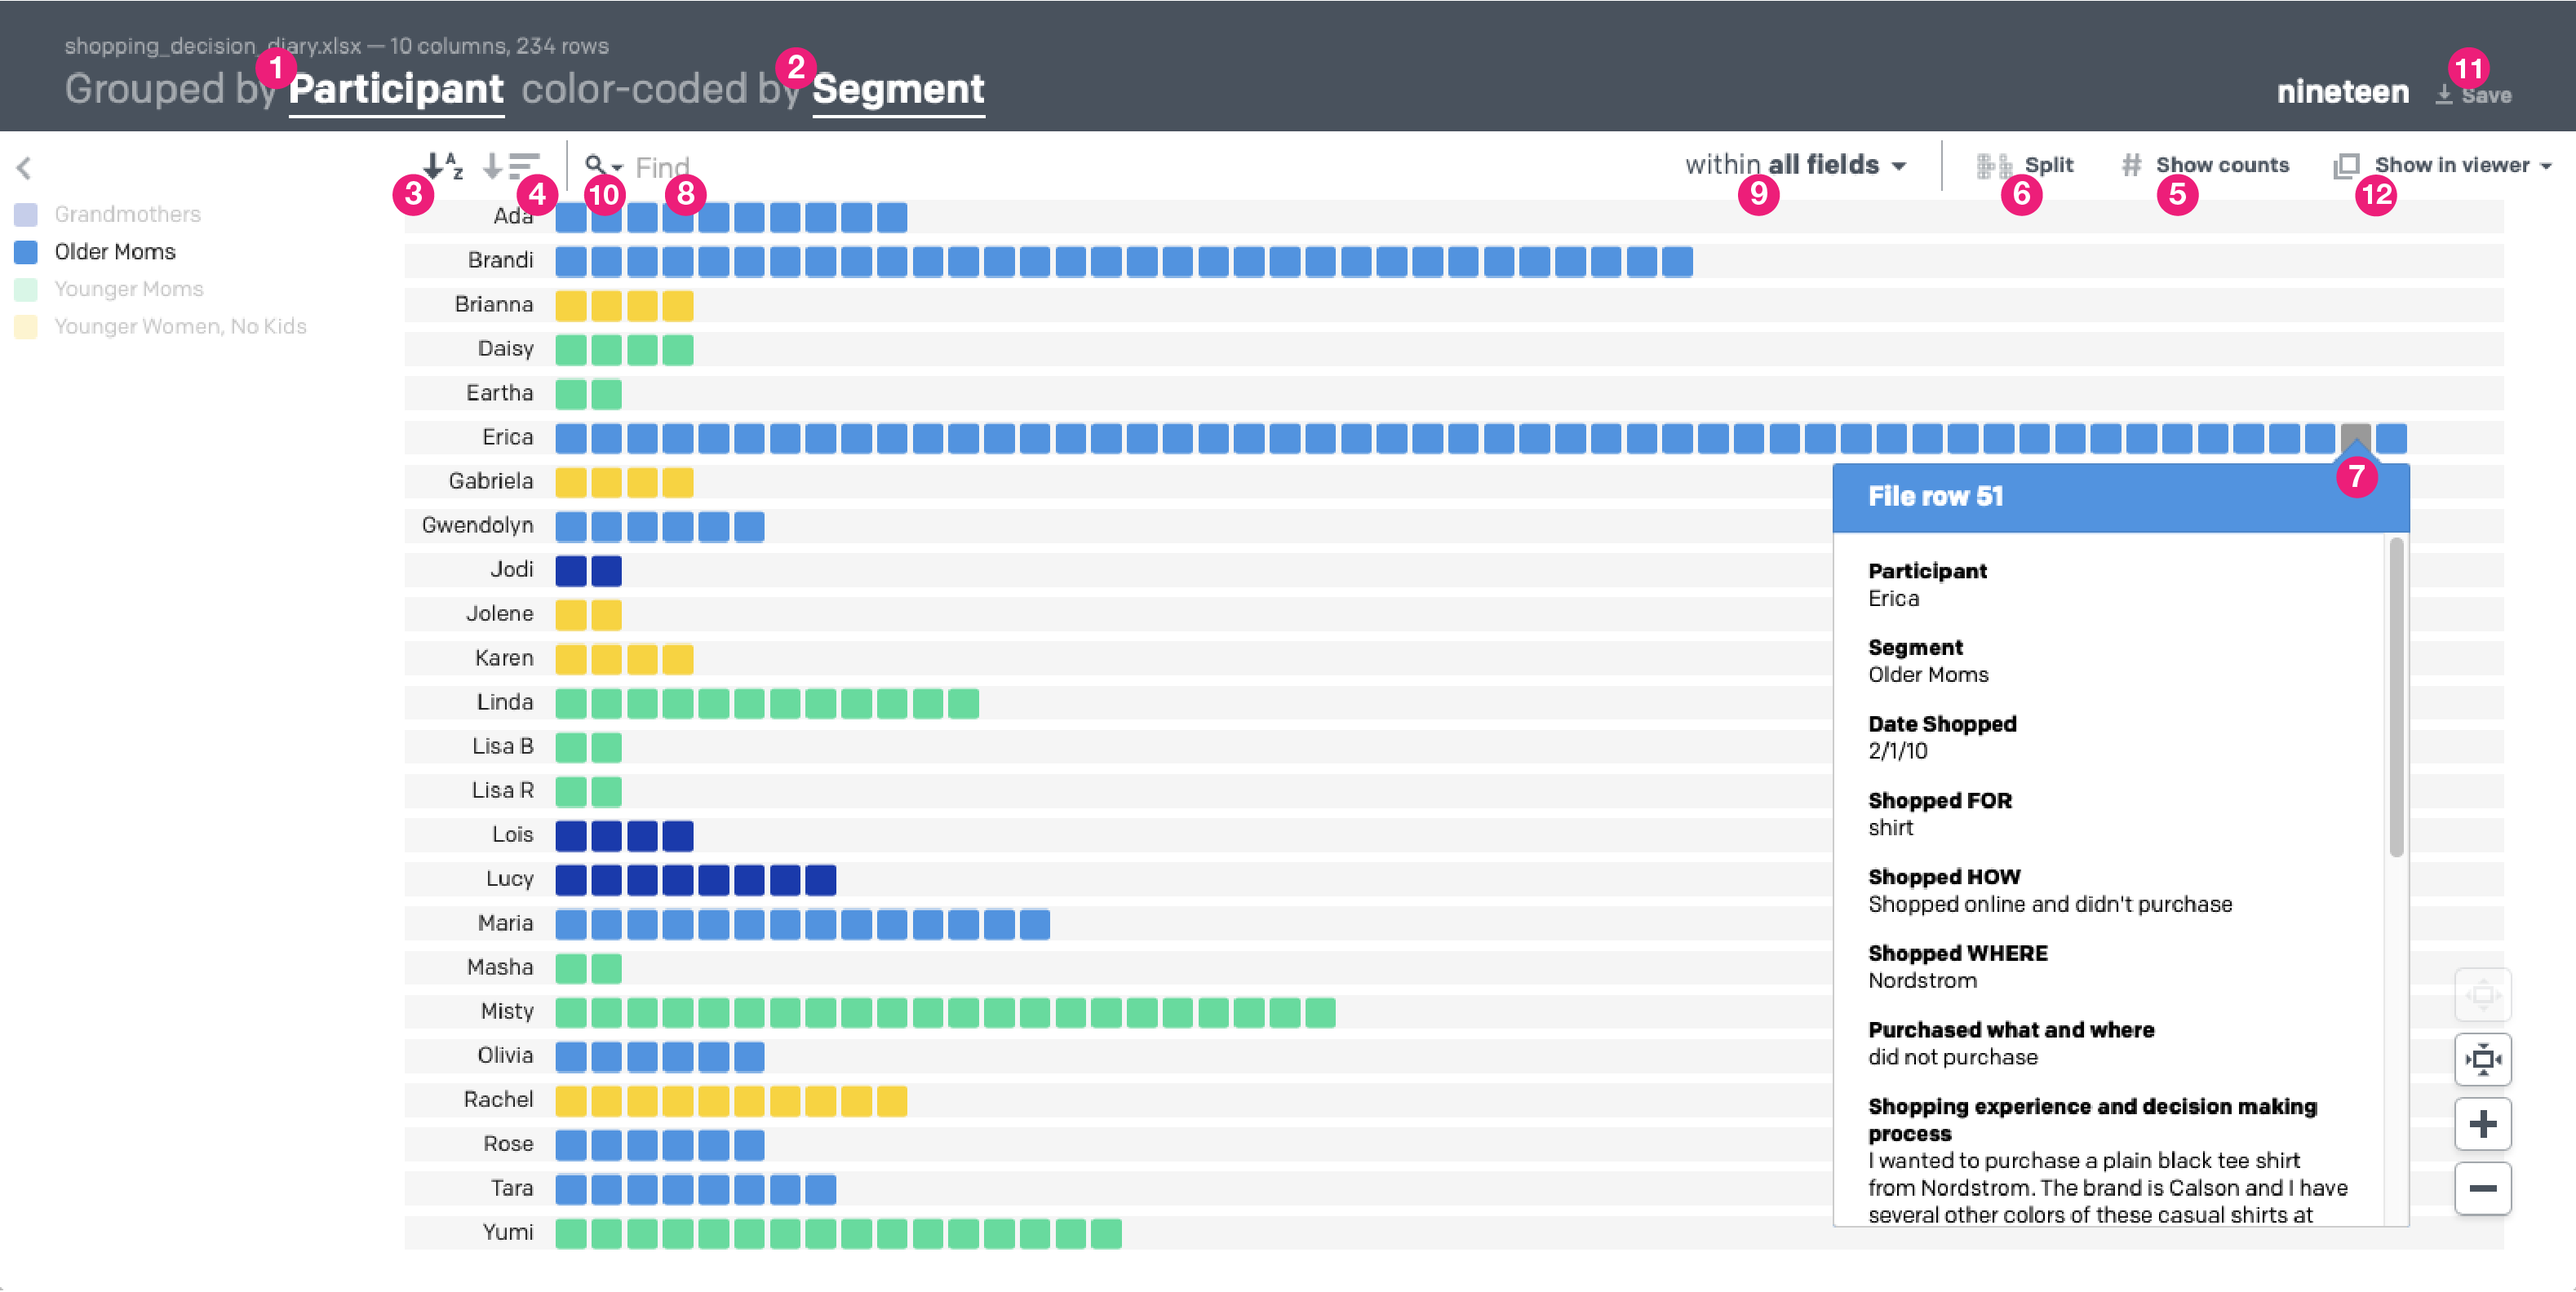
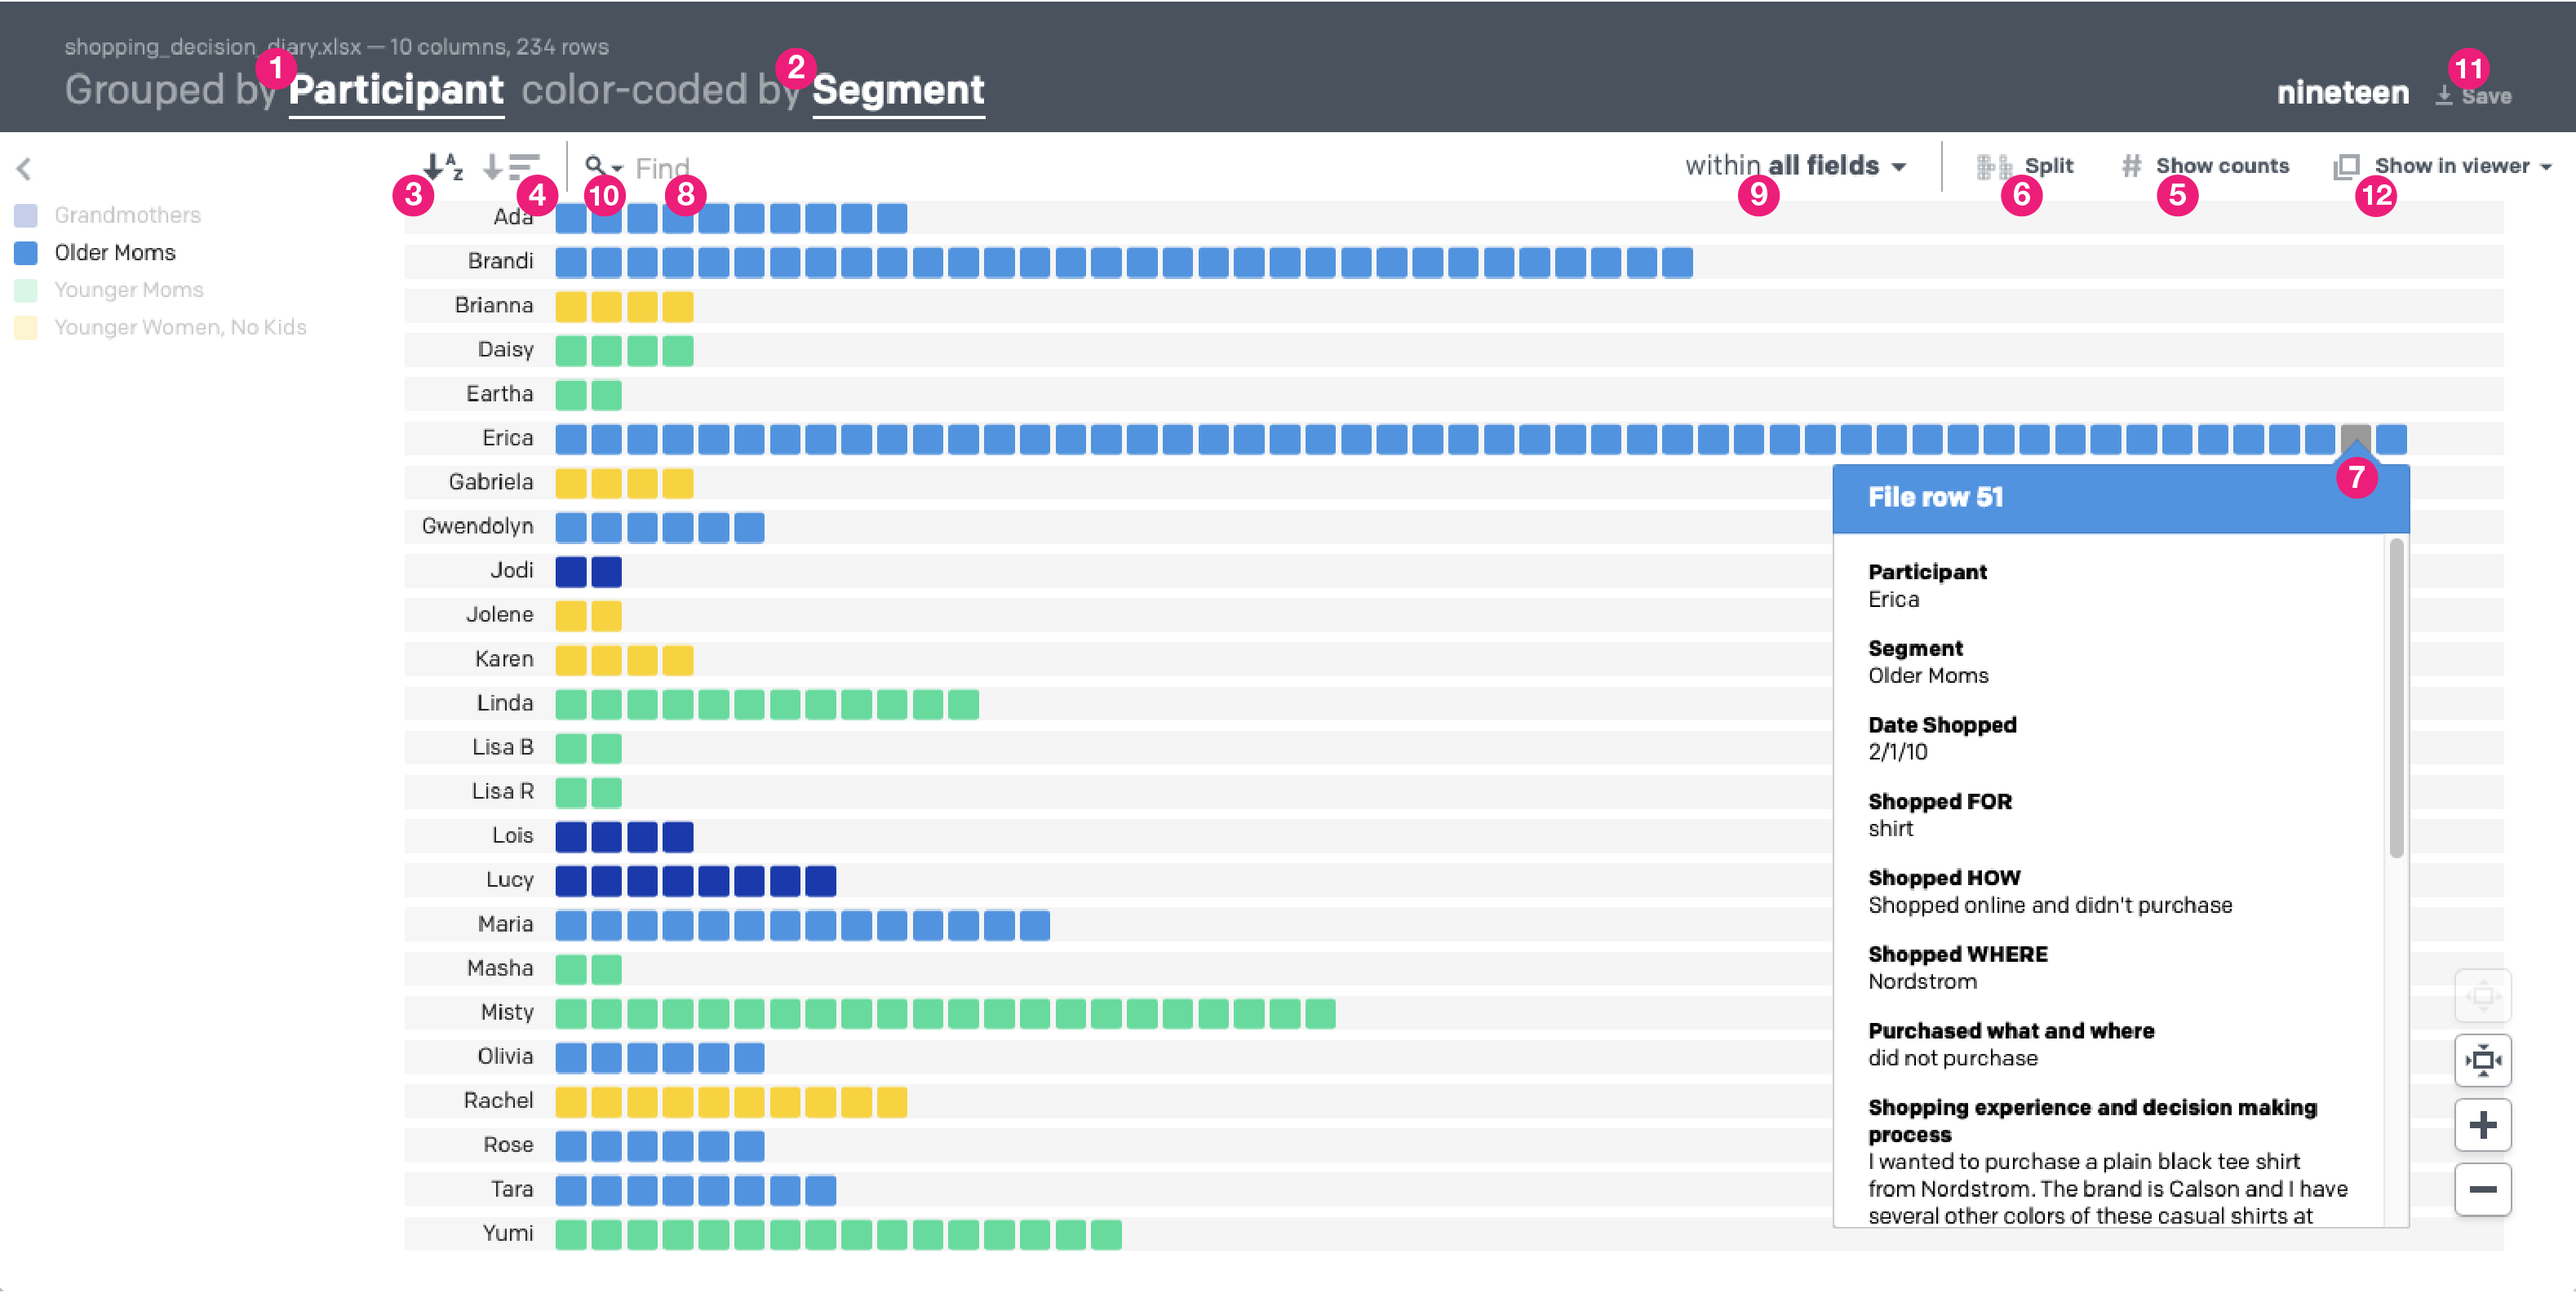
Updating README.md
Added images to README

diff --git a/README.md b/README.md
@@ -2,18 +2,30 @@
 ### Nineteen is a qualitative data visualization app that turns .xlsx & .csv files into interactive visual tools 
 
 ### Basic Usage
-New users may find it helpful use the "Try an example" link at the bottom of [Nineteen's main page](https://usenineteen.com) first, 
+New users may find it helpful use the "Try an example" link (A) at the bottom of [Nineteen's main page](https://usenineteen.com) first, 
 before reading more here.
 
-**Loading data:** The simplest use is to pick a file from your local files with the "Choose a file" button on 
+**Loading data:** The simplest use is to pick a file from your local files with the "Choose a file" (B) button on 
 [Nineteen's main page](https://usenineteen.com). Each row of your data file becomes a data item, shown as a square in Nineteen's visualization.
 
+
+<img src="app/assets/images/NineteenUI-02.png"
+  alt="Main page"
+  title="Nineteen's main page"
+  style="display: inline-block; margin: 60 ; border-style: dotted; border-color: lightgrey; ">
+  
+
 **You can control how data is displayed using two settings: grouping and color-coding:**
-- Use the “group by” option to display your data so that it is organized by a single column heading, such as participant
-- Apply the “color by” option to show how data in another column heading are distributed in your groups through color coding 
+- Use the “group by” option (1) to display your data so that it is organized by a single column heading, such as participant
+- Apply the “color by” option (2) to show how data in another column heading are distributed in your groups through color coding 
 - For example: you can “group” your data by participant (say, column 1), then color code by any other column, such as segment (column 2). 
 See the "Usable Example section, below, to see this example in an actual file & visualization.
 
+<img src="app/assets/images/NineteenUI-01.png"
+  alt="Visualization view"
+  title="Nineteen's visualization view"
+  style="display: inline-block; margin: 60 ; border-style: dotted; border-color: lightgrey; ">
+  
 ### File Formatting - a few quick guidelines
 - For Excel workbooks (.xlsx files), Nineteen only references the *first* worksheet/tab
 - For both .xlsx and .csv files: 
@@ -21,26 +33,29 @@ See the "Usable Example section, below, to see this example in an actual file & 
   - After the first row, each line is transformed into an individual data item, shown as a square in Nineteen's visualization
   
 ### A Usable Example 
-- **Try out a demo from the main page of Nineteen** Click "Try an example" on [Nineteen's main page](https://usenineteen.com) 
+- **Try out a demo from the main page of Nineteen** Click "Try an example" link (A) on [Nineteen's main page](https://usenineteen.com) 
 - **See the example file** You can download a copy of the 
 [data file](https://github.com/UseNineteen/nineteen/blob/main/app/downloads/shopping_decision_diary.xlsx?raw=true) used for the example
 
 ### Additional Features to Discover
 Nineteen does not make any changes to your data, so feel free to explore the UI. Additional features include:
-- **Sorting** You can sort the visualization by alphanumeric order or by the number of items in each group
-- **Counting** Nineteen can show counts by group with the "show counts" button
-- **Splitting** If you have color coded your visualization, you can split your groups visually using the "split" button
-- **Detailed viewer** mouse over any item in the visualization to see all the data from that row of your file:
+- **Sorting:** You can sort the visualization by alphanumeric order (3) or by the number of items in each group (4)
+- **Counting:** Nineteen can show counts by group with the "show counts" button (5)
+- **Splitting:** If you have color coded your visualization, you can split your groups visually using the "split" button (6)
+- **Detailed viewer:** mouse over any item in the visualization to see all the data from that row of your file (7):
 	- Clicking the data unit connected to the pop-up viewer will keep the viewer window visible until you close it
 	- You can have multiple viewers open at once and you can click & drag them to move & organize them
-- **Text search** The search bar can be found directly above the visualization frame:
+	- The "Show in viewer" menu (12) allows you to configure what data is included in the detailed view
+- **Text search:** The search bar (8) can be found directly above the visualization frame:
 	- Only items that match your search will remain in color. Non-matching items will be grayed out. Matching text will be highlighted in any pop-up viewer boxes
-	- Search in one or more columns (aka 'fields') - by default, search looks at all of them, but you can choose to limit it as well
+	- Search in one or more columns (aka 'fields') (9) - by default, search looks at all of them, but you can choose to limit it as well
 	- Mult-word search provides nuanced power:
 		- Searching for *dog food* will match any items that have the word 'dog' *or* the word 'food' - only one needs to be there to match
 		- Searching for *"dog food"* (with quotes) will match only items with the phrase "dog food"
 		- Searching for *dog AND food* ('AND' must be capitalized) will match only items that have both "food" and "dog" somewhere in them, though they may not be found together
-- **Save** You can save an image or a stand-alone version of the visualization tool. At present, the image saving is broken - it's a known issue which we are working to resolve
+	- High frequency words are viewable within the search interace through a drop-down (10) in the search bar
+- **Save:** You can save an image or a stand-alone version of the visualization tool (11). 
+At present, the image saving is broken - it's a known issue which we are working to resolve.
 
 
 ### A Note About Data Privacy
